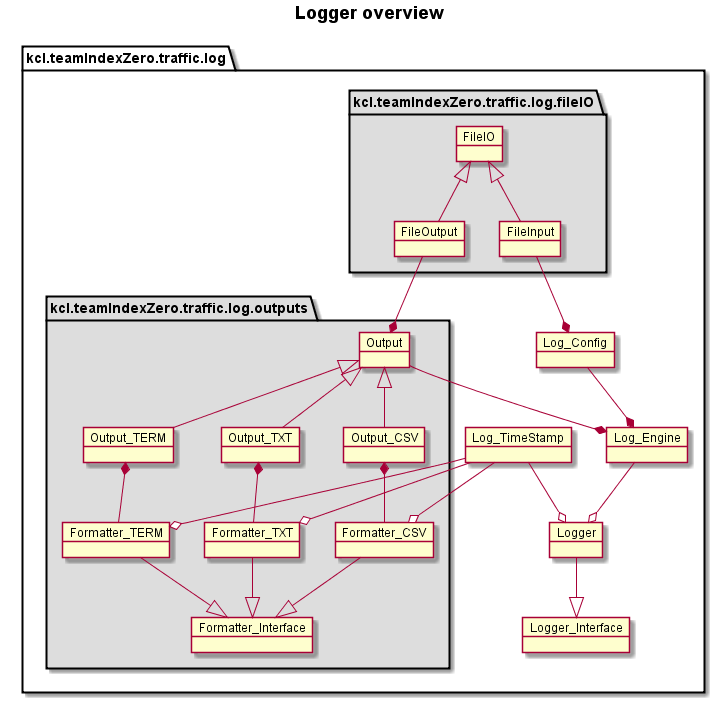
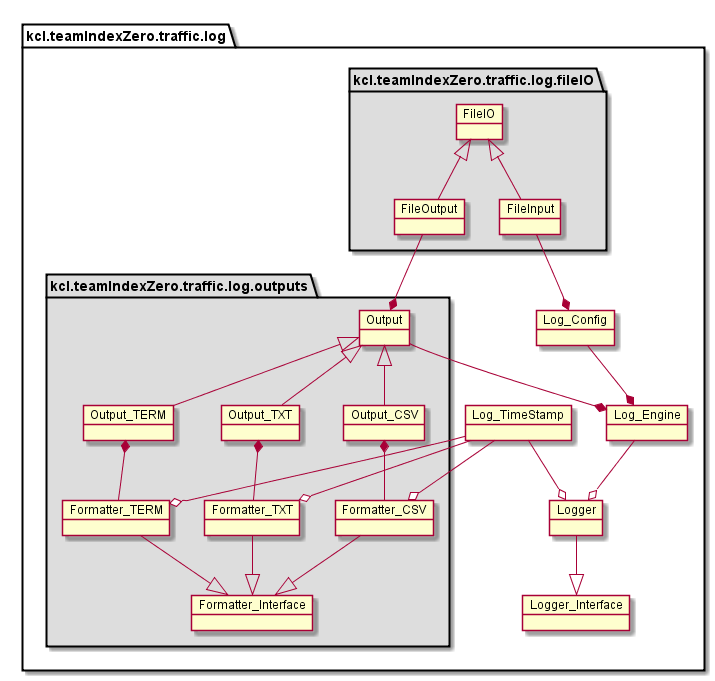
- Added logger object diag to report + fixed compile errors in LaTEX

Changed region(s): [[0.0308, 0.0308, 1.0, 0.9868], [0.4, 0.0, 0.6154, 0.0308]]

diff --git a/reports/finalReport/docs/report.tex b/reports/finalReport/docs/report.tex
@@ -7,7 +7,8 @@
 %Describe the context for the work and the problem you are addressing. Briefly summarise what you achieved in the project.
 
 \begin{itemize}
-	
+	\item Context
+	\item summary of chevos
 \end{itemize}
 
 \section{Review}
@@ -20,23 +21,35 @@
 \section{Requirements and Design}
 %Describe the requirements you set for your project at the beginning and the design you have taken for your project. Focus on why you decided to tackle the problem in the way you did, and what effects that had on the design. You may also wish to mention the impact of team-working on your requirements and design.
 
+
+
+
 \section{Implementation}
 %Describe the most significant implementation details, focussing on those where unusual or detailed solutions were required. Quote code fragments where necessary, but remember that the full source code will be included as an appendix. Explain how you tested your software (e.g. unit testing) and the extent to which you tested it. If relevant to your project, explain performance issues and how you tackled them.
-\begin{itemize}
-    \item Log module
+
+\subsection{Logger}
+
+\begin{figure}[h!]
+	\vspace{1.5em}
+  	\caption{Logger overview}
+  	\label{fig:logger_overview}
+  	\centering
+	\includegraphics[width=0.5\textwidth]{figs/logModuleObjectDiagram.png}
+  	\vspace{1.5em}
+\end{figure}
+
     \begin{itemize}
         \item explain why and usage scenarios
         \item add basic arch. uml here
-        \item Log config option injection
-        \item Output formats
+        \item Log config option injection (why/how)
+        \item Output formats (impact on performance)
     \end{itemize}
 
-    \item Traffic Lights
-    \begin{itemize}
-        \item two types of traffic lights: singles and those in one junction set
-        \item all traffic lights work autonomously
-        \item traffic light state: discussion whether traffic light State should be boolean or enum (everyone wrote his version of boolean traffic lights, different ideas so we have taken Enum)
-    \end{itemize}
+\subsection{Traffic Lights}
+\begin{itemize}
+    \item two types of traffic lights: singles and those in one junction set
+    \item all traffic lights work autonomously
+	\item traffic light state: discussion whether traffic light State should be boolean or enum (everyone wrote his version of boolean traffic lights, different ideas so we have taken Enum)
 \end{itemize}
 
 \begin{itemize}
@@ -132,7 +145,7 @@ Drawn all static objects (no debug details) in 1087 millis
     \item Map construction
     \begin{itemize}
         \item OSM xml import (lane directions and such)
-        \itme mention specifically the issue with the loosely coupled data/inaccurate data (human error, multiple representations etc.). We had to 'cut edges' to get it there.
+        \item mention specifically the issue with the loosely coupled data/inaccurate data (human error, multiple representations etc.). We had to 'cut edges' to get it there.
         \item SUMO has that capability but implements its own tags and does some guess work
     \end{itemize}
 
